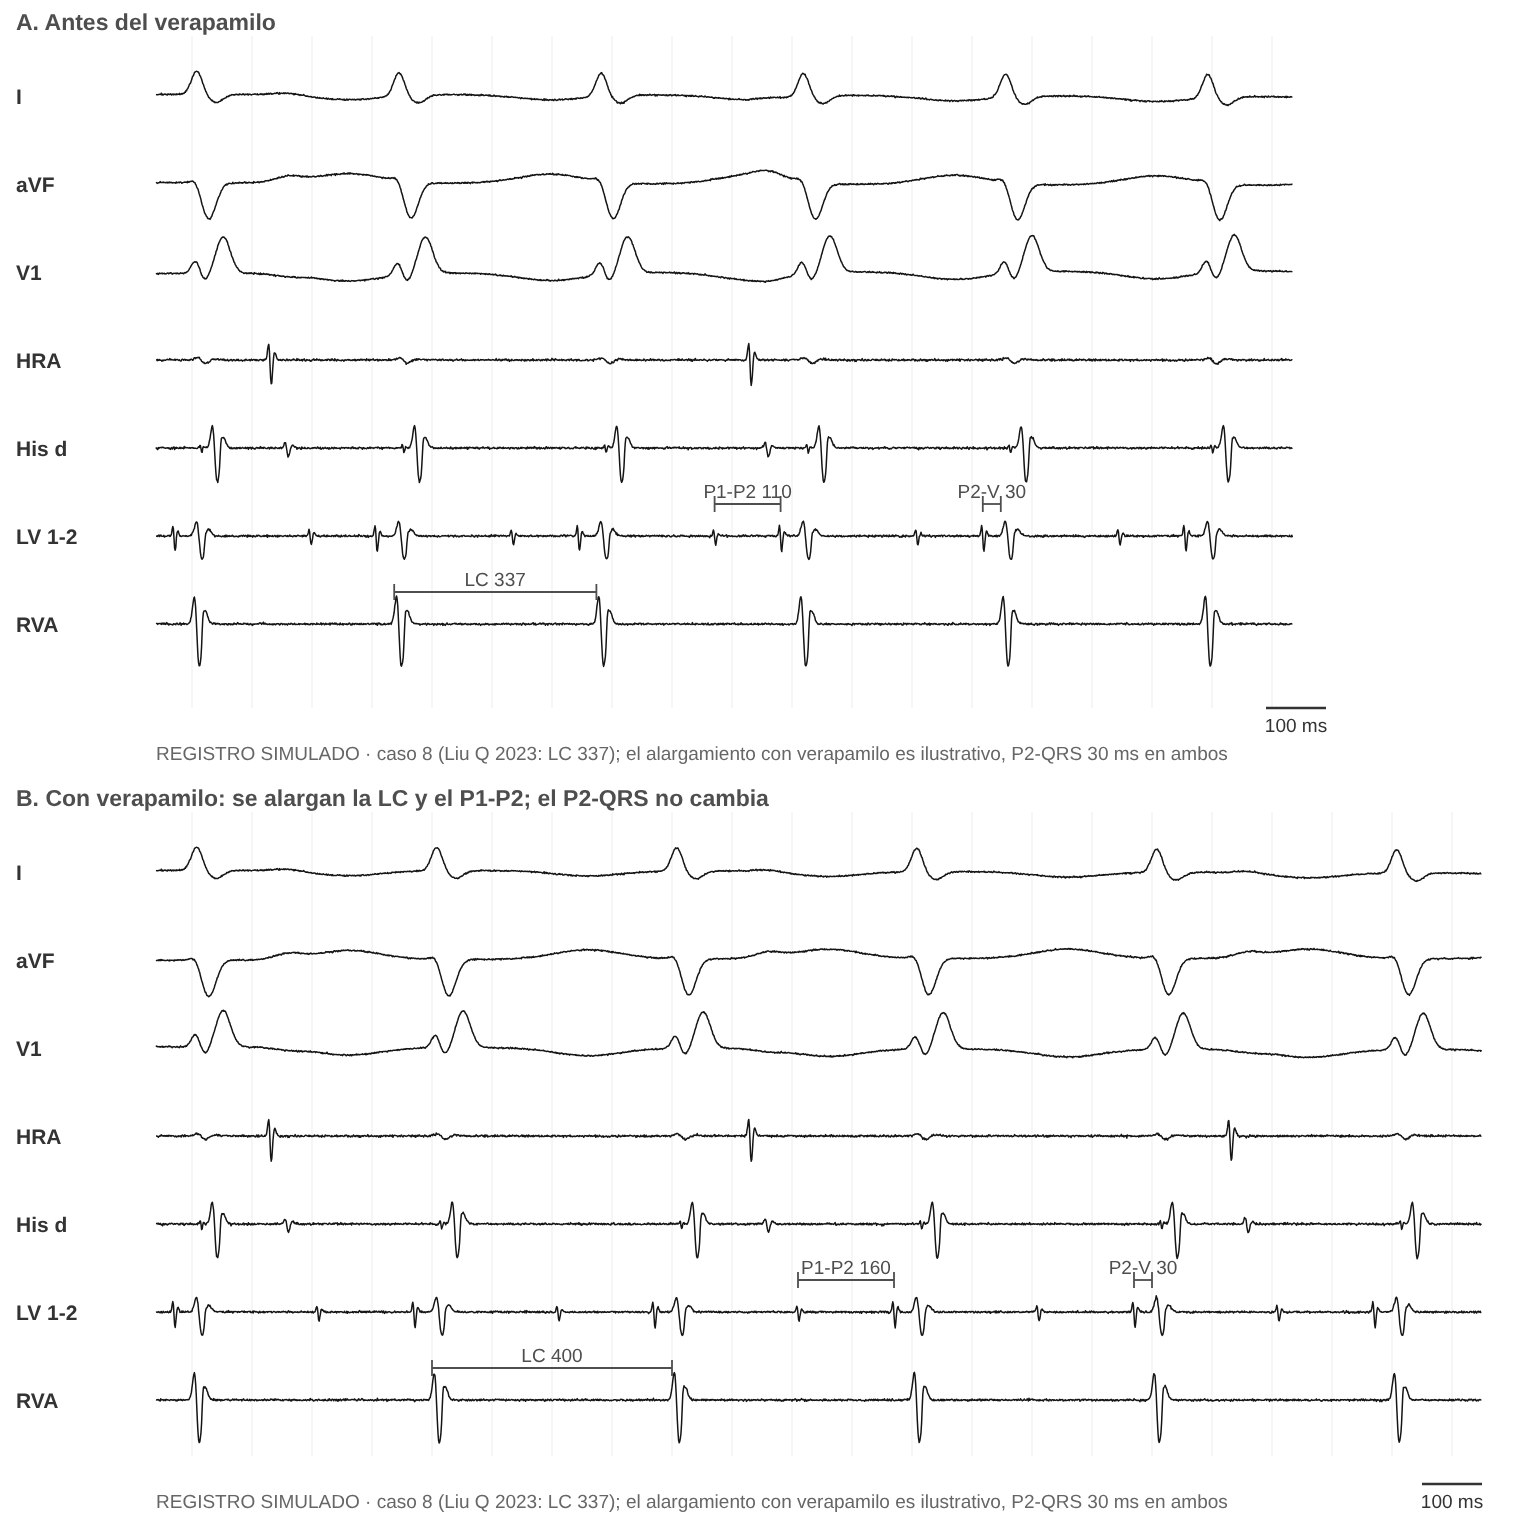
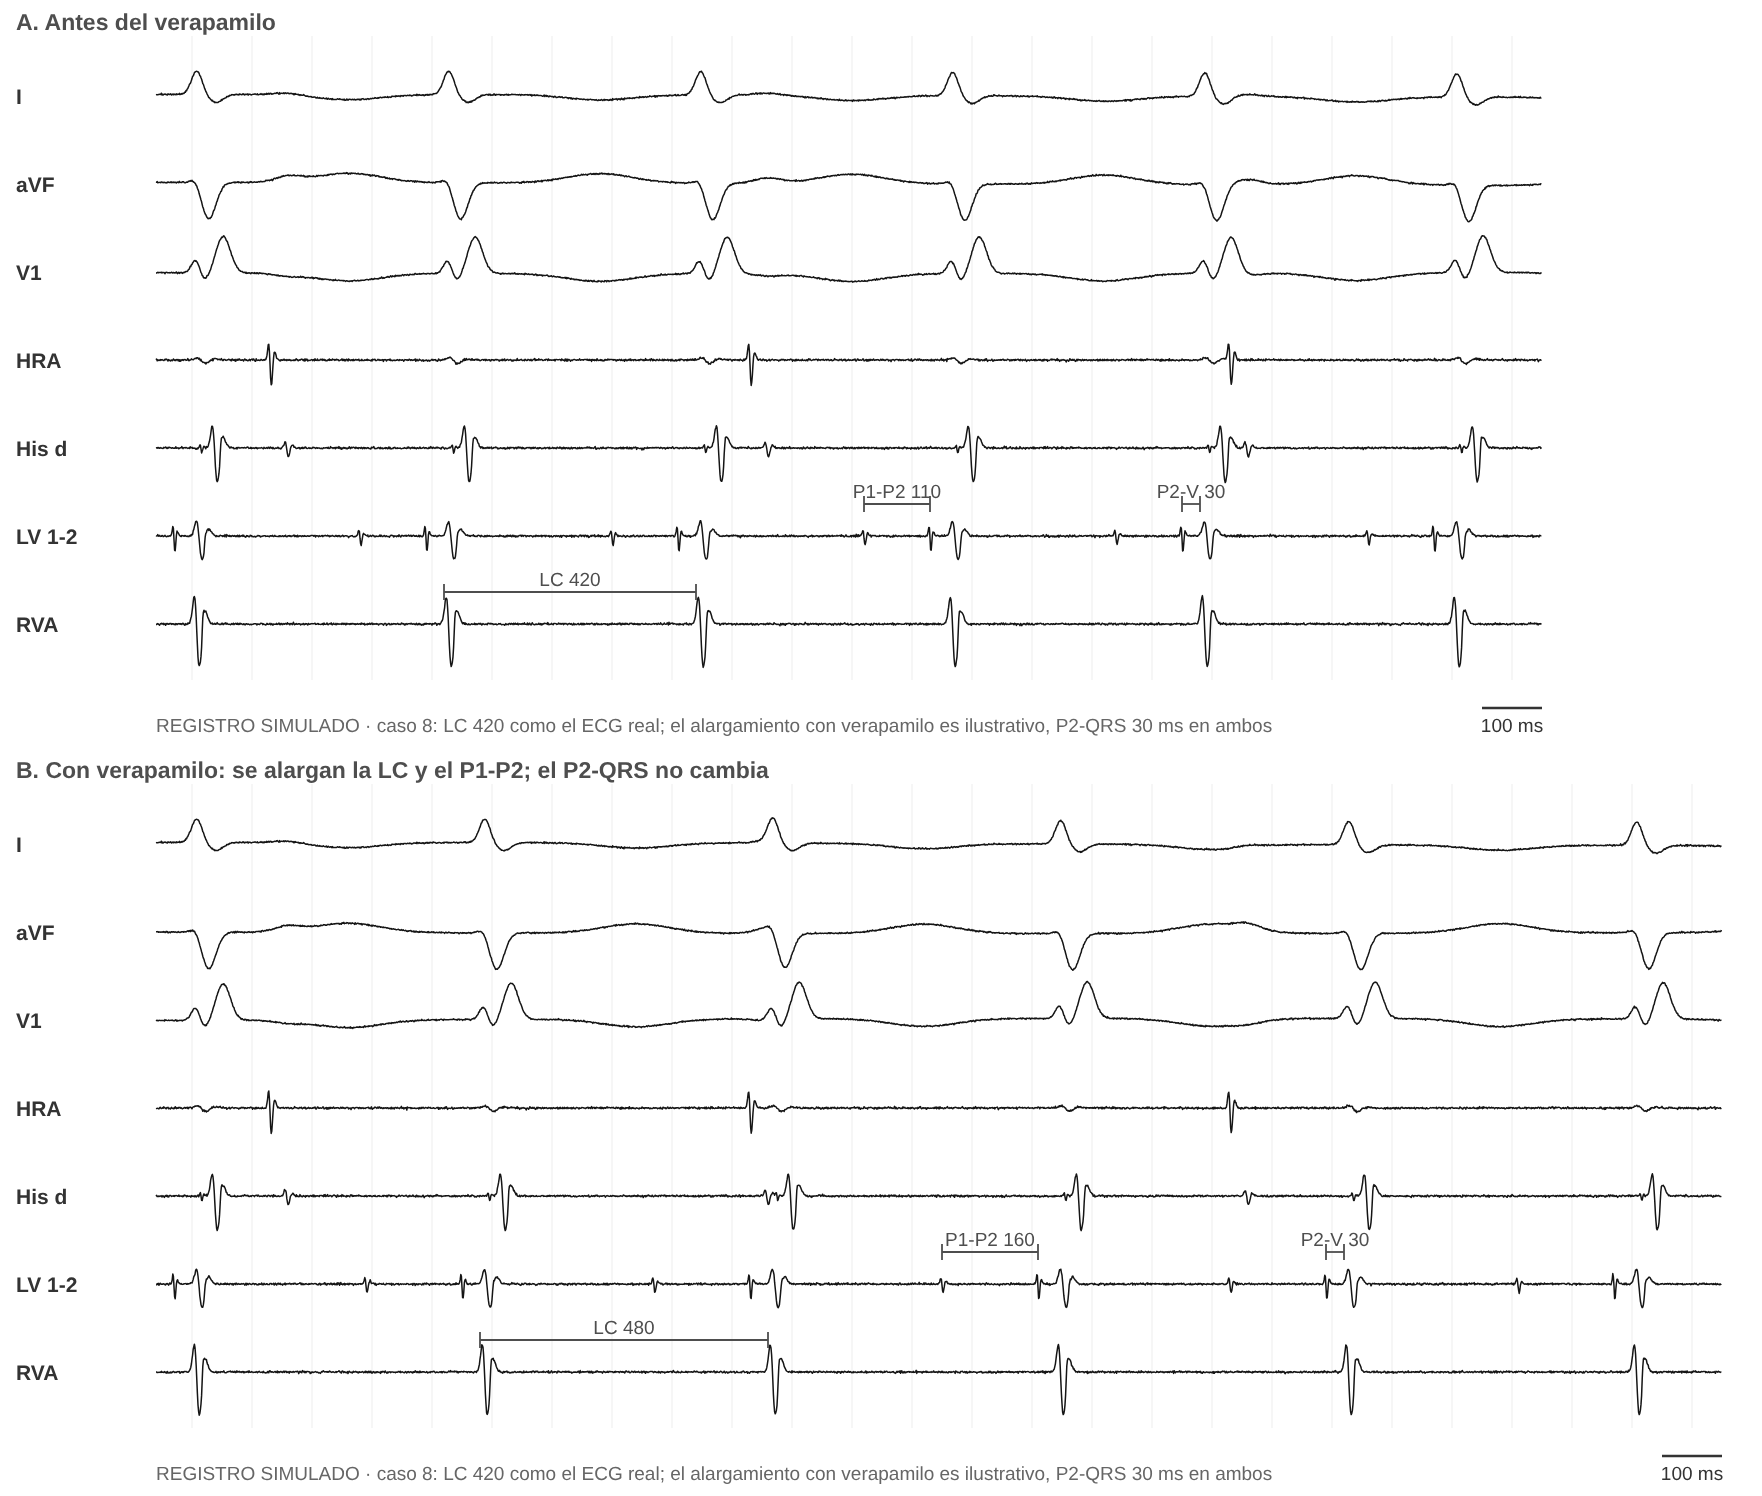
Caso 8: ECG real de TV fascicular y sinusal después de la conversión (anonimizados), LC 420, basal e inducción
Claude-Session: https://claude.ai/code/session_01Pw5rjt62KK5LeJZoEyFiaM

diff --git a/index.html b/index.html
@@ -1141,7 +1141,8 @@ const PCASOS = [
       ado: { r: 'Enlentece transitoriamente, con bloqueo VA, sin terminar.' }, parahis: { r: 'Respuesta nodal.' } },
     dx: ['jet'], ex: 'Un EA precoz que adelanta el His inmediato sin cortar la taquicardia no es compatible con TRNAV (dejaría la vía rápida refractaria). Sin doble vía y sin conducción por la vía lenta en la sobreestimulación auricular, el diagnóstico es taquicardia de la unión.', refs: ['padanilam08', 'fan11', 'veen12'] },
   { id: 'c8', t: 'Taquicardia de QRS ancho que terminó con verapamilo', p: 'Varón de 17 años, corazón sano. En la guardia, una taquicardia de QRS ancho terminó con verapamilo.',
-    h: ['Taquicardia de QRS 130 ms, BRD con eje superior, LC 337 ms', 'Disociación AV (más V que A)', 'His retrógrado 15 ms después del inicio del QRS'],
+    ecg: 'figs/sim/casos/c8_ecg.jpg', ecgReal: true, ecg2: 'figs/sim/casos/c8_ecg_sin.jpg', basal: 'figs/sim/casos/c8_basal.png', ind: 'figs/sim/casos/c8_ind.png',
+    h: ['Taquicardia de QRS 140 ms, BRD con eje superior, LC 420 ms', 'Disociación AV (más V que A)', 'His retrógrado 15 ms después del inicio del QRS'],
     m: { map: { r: 'En el septum medio: P1 mesodiastólico (proximal → distal) y P2 presistólico (distal → proximal); P1-V 100 → 75 → 55 ms de proximal a distal.', u: 'clave', img: 'figs/sim/prac/tvf_post.png' },
       verap: { r: 'Verapamilo 0,03 mg/kg alarga la LC; P1-P2 y P2-P1 se alargan y P2-QRS no cambia.', u: 'clave', img: 'figs/sim/prac/p8_verap.png' },
       vop: { r: 'Encarrilable desde el VD; el encarrilamiento captura P1 en forma ortodrómica.', u: 'util' },
@@ -1221,7 +1222,7 @@ function renderPracList() {
 }
 function presFigs(c) {
   const f = (src, lab, real) => src ? `<figure class="real${real ? '' : ' sim'}"><a href="${src}" target="_blank" rel="noopener"><img src="${src}" alt="${lab}" loading="lazy"></a><figcaption>${lab}. ${real ? 'Registro real, anonimizado' : 'Registro simulado (no es un registro real)'}. Tocá para ampliar.</figcaption></figure>` : '';
-  return f(c.ecg, 'ECG de la taquicardia', c.ecgReal) + f(c.basal, 'Estudio basal') + f(c.ind, 'Inducción');
+  return f(c.ecg, 'ECG de la taquicardia', c.ecgReal) + f(c.ecg2, 'ECG en ritmo sinusal, después de la conversión', c.ecgReal) + f(c.basal, 'Estudio basal') + f(c.ind, 'Inducción');
 }
 function startCase(i) { pCur = i; pLog = []; pDone = null; renderCase(); scrollTo({ top: $('#p-prac').offsetTop - 70 }); }
 function renderCase() {

diff --git a/sw.js b/sw.js
@@ -1,6 +1,6 @@
 // Permite instalar la app y abrirla sin conexión. Primero la red (siempre lo último publicado); si no hay, la copia.
 // Si cambiás un archivo, subí CACHE_VERSION.
-const CACHE_VERSION = 'mef-v62';
+const CACHE_VERSION = 'mef-v63';
 const ARCHIVOS = ['./', './index.html', './manifest.json', './iconos/icon-192.png', './iconos/icon-512.png'];
 self.addEventListener('install', e => e.waitUntil(caches.open(CACHE_VERSION).then(c => c.addAll(ARCHIVOS)).then(() => self.skipWaiting())));
 self.addEventListener('activate', e => e.waitUntil(caches.keys().then(ks => Promise.all(ks.filter(k => k !== CACHE_VERSION).map(k => caches.delete(k)))).then(() => self.clients.claim())));

diff --git a/herramientas/simulador/cases4.py b/herramientas/simulador/cases4.py
@@ -213,18 +213,18 @@ S['p3_vop'] = dict(win=(-80, v_after + 420), pxms=0.27, channels=CH,
     cal=[(sp[0], sp[1], 'RVA', 'estim. 330'), (Aret[-1], focal, 'HRA', 'A-A')],
     marks=[(Aret[-1], 'His p', 'A'), (focal, 'His p', 'A'), (v_after, 'aVF', 'V')])
 
-# Caso 8: TV fascicular posterior (LC 337). Con verapamilo se alarga la LC: P1-P2 y P2-P1 se alargan; P2-QRS no cambia.
+# Caso 8: TV fascicular posterior (LC 420, como el ECG real del caso). Con verapamilo se alarga la LC: P1-P2 y P2-P1 se alargan; P2-QRS no cambia.
 def tvf(LC, p1p2, title):
     vs = [i * LC for i in range(6)]
     p2 = [v - 30 for v in vs]
     p1 = [x - p1p2 for x in p2]
     ext = {'LV 1-2': [(t, 0.32, 0.8) for t in p1] + [(t, 0.55, 0.7) for t in p2]}
     return dict(win=(-60, vs[-1] + 150), pxms=0.30, title=title, channels=['HRA', 'His d', 'LV 1-2', 'RVA'],
-        src='caso 8 (Liu Q 2023: LC 337); el alargamiento con verapamilo es ilustrativo, P2-QRS 30 ms en ambos',
+        src='caso 8: LC 420 como el ECG real; el alargamiento con verapamilo es ilustrativo, P2-QRS 30 ms en ambos',
         beats=[(v, 'rbs') for v in vs], atr=[(a, 'sinus', 1) for a in [130, 930, 1730] if a < vs[-1]], h_retro=[v + 15 for v in vs],
         extra=ext, cal=[(vs[1], vs[2], 'RVA', f'LC {LC}'), (p1[3], p2[3], 'LV 1-2', f'P1-P2 {p1p2}'), (p2[4], vs[4], 'LV 1-2', 'P2-V 30')])
-S['p8_verap_a'] = tvf(337, 110, 'A. Antes del verapamilo')
-S['p8_verap_b'] = tvf(400, 160, 'B. Con verapamilo: se alargan la LC y el P1-P2; el P2-QRS no cambia')
+S['p8_verap_a'] = tvf(420, 110, 'A. Antes del verapamilo')
+S['p8_verap_b'] = tvf(480, 160, 'B. Con verapamilo: se alargan la LC y el P1-P2; el P2-QRS no cambia')
 
 if __name__ == '__main__':
     only = sys.argv[3:] or list(S)

diff --git a/herramientas/simulador/cases5.py b/herramientas/simulador/cases5.py
@@ -150,6 +150,21 @@ S['p7_eha_b'] = dict(win=(-100, vs[-1] + 250), pxms=0.25, title='B. EA precoz (A
     cal=[(hs[2], hs[3], 'His d', f'H-H {LC7}'), (hs[3], hs[4], 'His d', f'H-H {hs[4] - hs[3]}'), (hs[4], hs[5], 'His d', f'H-H {LC7}')],
     marks=[(apb, 'V1', 'EA')])
 
+# Caso 8 (TV fascicular posterior, LC 420 como el ECG real): basal e inducción con extraestímulos ventriculares.
+S['c8_basal'] = basal('caso 8: AH 85, HV 45, ilustrativos', ah=85, cl=800)
+S['c8_basal']['win'] = (-80, 2 * 800 + 330)
+LC8 = 420
+sp = [0, 600, 880]                                    # S1 600 x2, S2 280 desde el ápex del VD
+vt = [sp[-1] + 360 + LC8 * k for k in range(6)]
+p2 = [v - 30 for v in vt]; p1 = [x - 110 for x in p2]
+a_sin = [250, 1050, 1850, 2650]
+S['c8_ind'] = dict(win=(-80, vt[-1] + 200), pxms=0.27, title='Inducción: extraestímulo ventricular (S1-S2 600-280)',
+    channels=['HRA', 'His d', 'LV 1-2', 'RVA'], src='caso 8: valores ilustrativos',
+    beats=[(s, 'pa') for s in sp] + [(v, 'rbs') for v in vt], spikes=sp,
+    atr=[(a, 'sinus', 1) for a in a_sin], h_retro=[s + 120 for s in sp] + [v + 15 for v in vt],
+    extra={'LV 1-2': [(t, 0.32, 0.8) for t in p1] + [(t, 0.55, 0.7) for t in p2]},
+    cal=[(sp[1], sp[2], 'RVA', 'S2 280'), (vt[2], vt[3], 'RVA', f'LC {LC8}'), (a_sin[1], a_sin[2], 'HRA', 'A-A 800')])
+
 if __name__ == '__main__':
     for k in (sys.argv[3:] or list(S)):
         render(S[k], f'{OUT}/{k}.svg')

diff --git a/PENDIENTES.md b/PENDIENTES.md
@@ -16,7 +16,7 @@ Cada link abre el caso en una vista de revisión: hallazgos, diagnóstico, expli
 - [ ] [ver](https://drsebastianmaldonado.github.io/Maniobras-EEF/#revision-5) **Caso 5: TSV de RP largo con "A-A-V"**. Datos publicados: Veenhuyzen 2011, fig. 3.
 - [ ] [ver](https://drsebastianmaldonado.github.io/Maniobras-EEF/#revision-6) **Caso 6: Taquicardia incesante y miocardiopatía**. Datos publicados: Ho 2015.
 - [ ] [ver](https://drsebastianmaldonado.github.io/Maniobras-EEF/#revision-7) **Caso 7: Taquicardia con A y V simultáneos**. Didáctico (taquicardia de la unión) con tu ECG real de JET: pasó a una niña de 13 meses con LC 425; PPI−LC 175 y el resto ilustrativos.
-- [ ] [ver](https://drsebastianmaldonado.github.io/Maniobras-EEF/#revision-8) **Caso 8: Taquicardia de QRS ancho que terminó con verapamilo**. Datos publicados: Liu Q 2023, Liu 2015 y Nogami 2010.
+- [ ] [ver](https://drsebastianmaldonado.github.io/Maniobras-EEF/#revision-8) **Caso 8: Taquicardia de QRS ancho que terminó con verapamilo**. Datos publicados: Liu Q 2023, Liu 2015 y Nogami 2010. Con tus ECG reales (TV y sinusal después de la conversión): la LC pasó de 337 a 420 y el QRS a 140; el registro del verapamilo (LC 420 → 480) es ilustrativo.
 - [ ] [ver](https://drsebastianmaldonado.github.io/Maniobras-EEF/#revision-9) **Caso 9: TRAV septal que imita una TRNAV atípica**. Datos publicados: Arias 2010. Valen PJRT y TRAV por vía septal; revisar la explicación reescrita.
 - [ ] [ver](https://drsebastianmaldonado.github.io/Maniobras-EEF/#revision-10) **Caso 10: TSV con bloqueo VA tipo Wenckebach**. Didáctico (vía nodoventricular); LC 390 ilustrativa.
 - [ ] [ver](https://drsebastianmaldonado.github.io/Maniobras-EEF/#revision-11) **Caso 11: Taquicardia de QRS ancho con BRI en un corazón sano**. Didáctico (Mahaim); LC 300 ilustrativa. Se apoya en Josephson, Klein 1988, Sternick 2004 y tu presentación.
